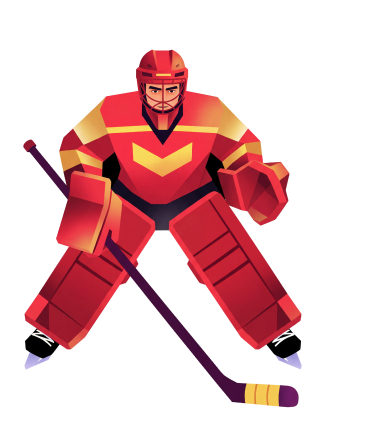
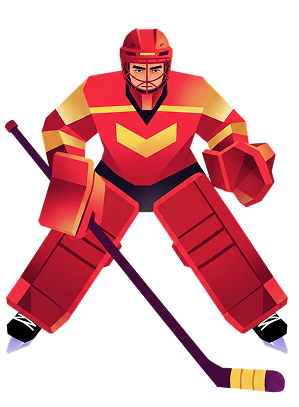
Park boost allies off the ice and freeze a full-width goalie in a narrower net.

diff --git a/track/src/tuning.js b/track/src/tuning.js
@@ -200,8 +200,8 @@ export const PLAYER = {
   maxScreenFrac: 2.47,
   /** Доля полуширины коридора от центра до крюка прыжковой пары. */
   jumpSpread: 0.364,
-  /** Союзники: доля полуширины коридора от оси до крюка, ближе к борту. */
-  allyEdge: 0.82,
+  /** Союзники на ускорении: доля полуширины до крюка. >1 — за кромкой коридора. */
+  allyEdge: 1.42,
   /** Напарник за плечом: насколько за бортом и насколько впереди противника. */
   mateOut: 350,
   mateAhead: 220,
@@ -255,8 +255,8 @@ export const GOALIE = {
   zBack: 18,
   span: 184,
   pace: 0.2,
-  /** Сжать спрайт по X. 1 = как в файле. */
-  widthScale: 0.8,
+  /** 1 = пропорции файла. Раньше сжимали до 0.8. */
+  widthScale: 1,
   /** С какой дистанции проявляется прозрачностью. */
   nearZ: 3000,
   nearPow: 0.45,
@@ -271,7 +271,7 @@ export const GOALIE = {
  * дальняя кромка сетки, и на льду створа под ней зияет дыра.
  * nearZ больше вратарского: створ проступает первым, вратарь — уже в нём.
  */
-export const GOAL = { yDownFrac: 0.3, postHeight: 220, halfW: 400, nearZ: 4200, nearPow: 0.7 };
+export const GOAL = { yDownFrac: 0.3, postHeight: 220, halfW: 352, nearZ: 4200, nearPow: 0.7 };
 
 /** Мировые края тела вратаря. dir < 0 — спрайт зеркален вокруг коньков. */
 export function goalieBodyWorld(x = 0, dir = 1) {
@@ -280,6 +280,17 @@ export function goalieBodyWorld(x = 0, dir = 1) {
   const rightOff = (GOALIE.bodyR - GOALIE.feetX) * worldW;
   if (dir < 0) return { left: x - rightOff, right: x - leftOff };
   return { left: x + leftOff, right: x + rightOff };
+}
+
+/** Неподвижная позиция в створе: тело целиком между штангами. */
+export function rollGoalie() {
+  const dir = 1;
+  const origin = goalieBodyWorld(0, dir);
+  const pad = 18;
+  const minX = -GOAL.halfW + pad - origin.left;
+  const maxX = GOAL.halfW - pad - origin.right;
+  const x = minX + Math.random() * Math.max(0, maxX - minX);
+  return { x, dir };
 }
 
 /** Тайминги кинематографичных камер, в секундах. */

diff --git a/track/src/fx.js b/track/src/fx.js
@@ -101,13 +101,8 @@ export function tickBeat(dt) {
   }
 }
 
-/** Плавный патруль: штанга → штанга с замедлением у краёв. */
+/** Только проявление с дистанции. Позиция задаётся в resetRun и не едет. */
 function updateGoalie(dt) {
-  S.goalieT += dt;
-  const phase = S.goalieT * GOALIE.pace * Math.PI * 2;
-  S.goalieX = Math.sin(phase) * GOALIE.span;
-  const vx = Math.cos(phase);
-  if (Math.abs(vx) > 0.2) S.goalieDir = vx > 0 ? 1 : -1;
   const z = (S.runDist || 0) - GOALIE.zBack;
   const gap = S.puck ? z - S.puck.z : GOALIE.nearZ;
   const want = gap <= 0 ? 1 : Math.pow(clamp01(1 - gap / GOALIE.nearZ), GOALIE.nearPow);

diff --git a/track/src/flow.js b/track/src/flow.js
@@ -13,7 +13,7 @@
 // ============================================================================
 
 import { AIM, MAX_LIVES, MOMENTUM, PUCK, SPEED } from "./balance.js";
-import { CINEMA, FEEL, GOALIE, TURN, goalieBodyWorld } from "./tuning.js";
+import { CINEMA, FEEL, GOALIE, TURN, goalieBodyWorld, rollGoalie } from "./tuning.js";
 import { ROUND_NEUTRAL, ROUNDS } from "./rounds.js";
 import { S, emptyStats, mods } from "./state.js";
 import { ui } from "./dom.js";
@@ -152,6 +152,9 @@ export function resetRun(opts = {}) {
   S.pointers = {};
 
   resetFeel();
+  const g = rollGoalie();
+  S.goalieX = g.x;
+  S.goalieDir = g.dir;
 
   S.runStats = emptyStats();
   S.pendingContinue = null;

diff --git a/track/src/assets.js b/track/src/assets.js
@@ -1,7 +1,7 @@
 // Новый арт-пак. Пути относительно track/index.html.
 // Подними ASSET_VER после замены картинок — браузер не возьмёт старый кэш.
 
-export const ASSET_VER = 4;
+export const ASSET_VER = 5;
 
 const ASSET_SRC = {
   comrade: "../assets/new/comrade.png",
